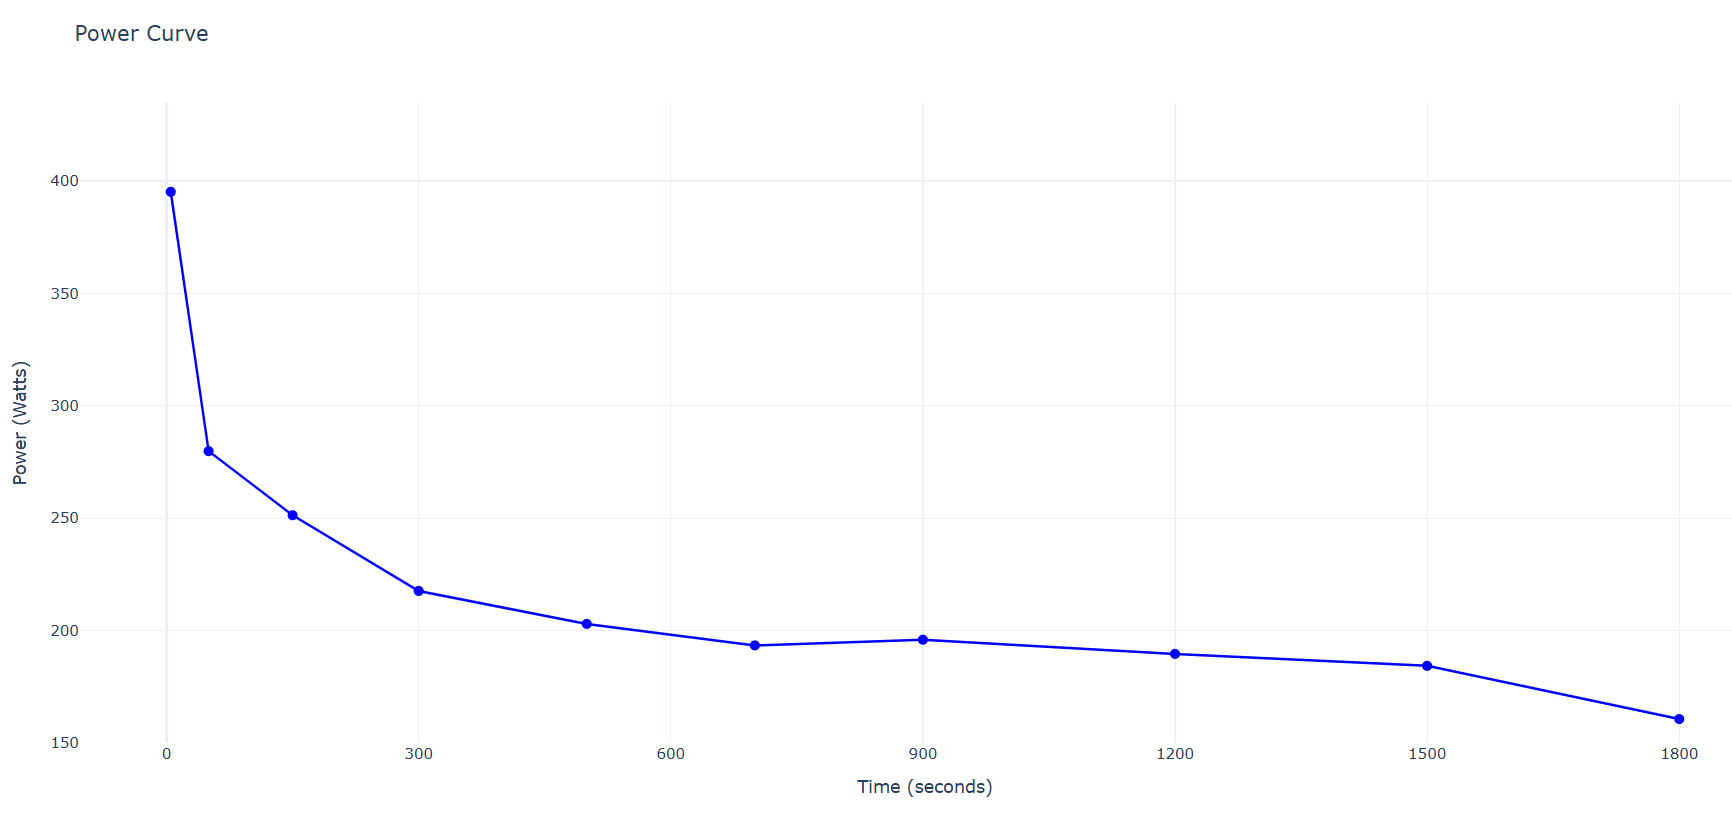
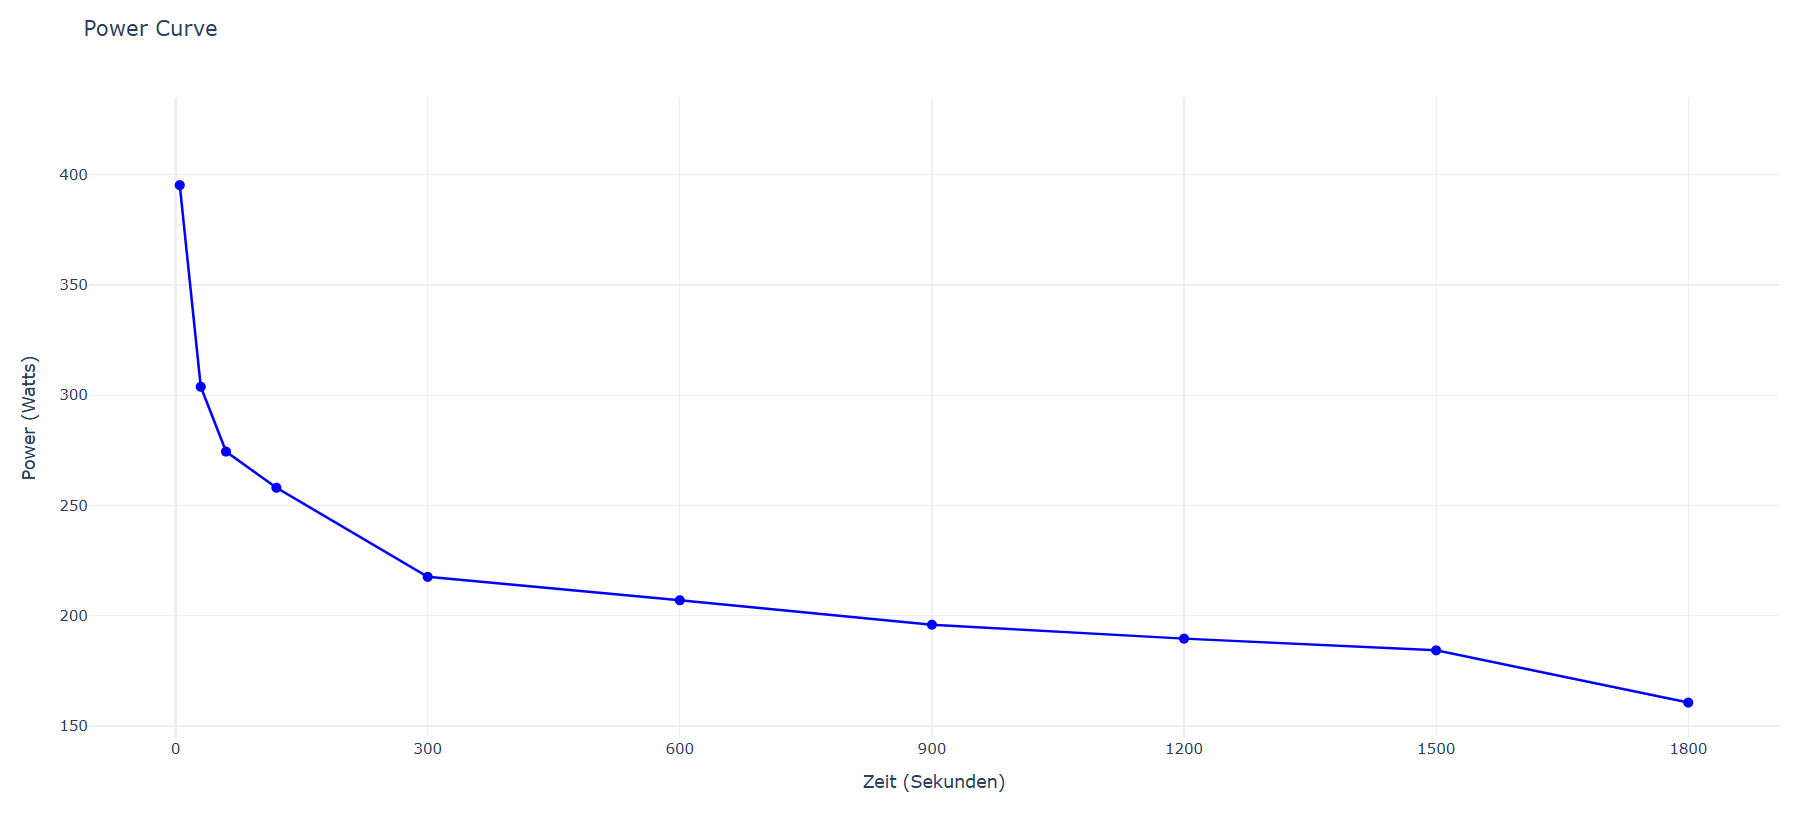
Aktualisierung von Aufgabe 4 und 5

diff --git a/main.py b/main.py
@@ -1,63 +1,113 @@
 import streamlit as st
-import read_data 
-import pandas as pd
+import read_data
 import read_pandas
+import pandas as pd
 from PIL import Image
-
 from person import Person
 from ekgdata import EKGdata
-
 
 st.write("# EKG Data Analysis")
 st.write("## Patient/in auswählen")
 
-if 'current_user' not in st.session_state:
-    st.session_state.current_user = 'None'
-
 person_dict = Person.load_person_data()
 person_names = Person.get_person_list(person_dict)
+person_ids = [p["id"] for p in person_dict]
 
-person_id = st.text_input("Personen-ID eingeben:")
+def get_id_by_name(name):
+    for person in person_dict:
+        if f"{person['lastname']}, {person['firstname']}" == name:
+            return person["id"]
+    return None
 
-# Personendaten anhand der ID laden und anzeigen
-if person_id:
-    all_persons = Person.load_person_data()
-    person_data_by_id = Person.load_by_id(person_id, all_persons)
-    if person_data_by_id:
-        st.markdown("**Personendaten (per ID):**")
-        st.json(person_data_by_id)
-        # Optional: Instanz erzeugen und weitere Infos anzeigen
-        person_by_id = Person(person_data_by_id)
-        age_by_id = person_by_id.calc_age(person_by_id)
-        st.markdown(f"**Alter:** {age_by_id} Jahre")
-    else:
-         st.warning("Keine Person mit dieser ID gefunden.")
+def get_name_by_id(pid):
+    for person in person_dict:
+        if person["id"] == pid:
+            return f"{person['lastname']}, {person['firstname']}"
+    return None
 
-st.session_state.current_user = st.selectbox(
-    'Patient/in',
-    options = person_names, key="sbPatient")
+def sync_name():
+    st.session_state.current_id = get_id_by_name(st.session_state.current_user)
 
-# Anlegen des Session State. Bild, wenn es kein Bild gibt
-if 'picture_path' not in st.session_state:
-    st.session_state.picture_path = 'data/pictures/none.jpg'
+def sync_id():
+    st.session_state.current_user = get_name_by_id(st.session_state.current_id)
 
-# Suche den Pfad zum Bild, aber nur wenn der Name bekannt ist
-if st.session_state.current_user in person_names:
-    st.session_state.picture_path = Person.find_person_data_by_name(st.session_state.current_user)["picture_path"]
-    
-# Öffne das Bild und Zeige es an
-image = Image.open(st.session_state.picture_path)
-st.image(image, caption=st.session_state.current_user)
+if 'current_user' not in st.session_state:
+    st.session_state.current_user = person_names[0]
+if 'current_id' not in st.session_state:
+    st.session_state.current_id = person_ids[0]
 
-if st.session_state.current_user in person_names:
-    person_data = Person.find_person_data_by_name(st.session_state.current_user)
-    person = Person(person_data)
-    age = person.calc_age(person_data)
+col1, col2 = st.columns(2)
+with col1:
+    st.selectbox(
+        "Patient/in",
+        options=person_names,
+        index=person_names.index(st.session_state.current_user),
+        key="current_user",
+        on_change=sync_name
+    )
+with col2:
+    st.selectbox(
+        "Personen-ID auswählen",
+        options=person_ids,
+        index=person_ids.index(st.session_state.current_id),
+        key="current_id",
+        on_change=sync_id
+    )
+
+person = Person.load_by_id(st.session_state.current_id, person_dict)
+
+if person:
+    try:
+        image = Image.open(person.picture_path)
+    except FileNotFoundError:
+        image = Image.open("data/pictures/none.jpg")
+    st.image(image, caption=f"{person.lastname}, {person.firstname}")
+
+    age = person.calc_age()
+    max_hr = person.calc_max_heart_rate()
     st.markdown(f"**Alter:** {age} Jahre")
-    heartrate = person.calc_max_heart_rate(person_data, age)
-    st.markdown(f"**Maximale Herzfrquenz:** {heartrate} bpm")
+    st.markdown(f"**Maximale Herzfrequenz:** {max_hr:.1f} bpm")
 
+    if person.ekg_tests:
+        ekg_ids = [ekg["id"] for ekg in person.ekg_tests]
 
+        # INITIALISIERE selected_ekg_index nur, wenn Person gewechselt hat oder nicht existiert
+        if ('current_person_id_for_ekg' not in st.session_state or
+            st.session_state.current_person_id_for_ekg != person.id or
+            'selected_ekg_index' not in st.session_state):
+            st.session_state.current_person_id_for_ekg = person.id
+            st.session_state.selected_ekg_index = 0
+
+        # Erstelle die Selectbox, ohne den Session State danach zu überschreiben
+        selected_index = st.selectbox(
+            "EKG auswählen",
+            options=range(len(ekg_ids)),
+            index=st.session_state.selected_ekg_index,
+            format_func=lambda x: str(x + 1),
+            key="selected_ekg_index"
+        )
+
+        # Aktualisiere den Index nur, wenn sich die Auswahl ändert (wenn nötig)
+        if selected_index != st.session_state.selected_ekg_index:
+            st.session_state.selected_ekg_index = selected_index
+
+        selected_ekg_id = ekg_ids[selected_index]
+        ekg_dict = EKGdata.load_by_id(person.ekg_tests, selected_ekg_id)
+
+        if ekg_dict:
+            ekg = EKGdata(ekg_dict)
+            threshold = 340
+            peaks = ekg.find_peaks(threshold)
+            fig = ekg.plot_time_series(peaks)
+            st.plotly_chart(fig)
+            estimated_hr = ekg.estimate_hr(peaks)
+            st.markdown(f"**Geschätzte Herzfrequenz:** {estimated_hr:.1f} bpm")
+            st.markdown(f"**EKG-Datei:** {ekg_dict['result_link']}")
+        else:
+            st.warning("Kein EKG mit dieser ID gefunden.")
+    else:
+        st.warning("Keine EKG-Daten für diese Person vorhanden.")
+        
 #EKG-Plot einfügen
 df = read_pandas.read_my_csv()
 
@@ -89,3 +139,4 @@ df_zone_summary = pd.DataFrame(zone_data)
 
 # Index-Spalte entfernen
 st.table(df_zone_summary.set_index("Zone"))
+

diff --git a/power_curve.py b/power_curve.py
@@ -6,31 +6,27 @@ pio.renderers.default = "browser"
 
 def load_activity_data(path: str) -> pd.DataFrame:
     df = pd.read_csv(path)
-
-    df["Time"] = np.arange(len(df))
-
+    df["Time"] = np.arange(len(df))  # 1 Hz: jede Zeile = 1 Sekunde
     return df
 
-def create_powercurve(df, windows_sizes):
-    power_values = []
-    for window in windows_sizes:
-        power = find_best_effort(df, window)
-        power_values.append(power)
-
-    return power_values
-
-def find_best_effort(series, windows_size):
-    rolling_power = series.rolling(window=windows_size).mean()
+def find_best_effort(series, window_size):
+    rolling_power = series.rolling(window=window_size).mean()
     best_effort = rolling_power.max()
-
     return best_effort
 
-def plot_powercurve(time, power_values):
-    df_new = pd.DataFrame({'Time' : time, 'Power' : power_values})
+def create_powercurve(series, durations_seconds):
+    power_values = []
+    for duration in durations_seconds:
+        power = find_best_effort(series, duration)  # 1 Sample = 1 Sekunde
+        power_values.append(power)
+    return power_values
+
+def plot_powercurve(durations_seconds, power_values):
+    df_new = pd.DataFrame({'Duration (s)' : durations_seconds, 'Power (W)' : power_values})
     fig = go.Figure()
     fig.add_trace(go.Scatter(
-        x=df_new["Time"],
-        y=df_new["Power"],
+        x=df_new["Duration (s)"],
+        y=df_new["Power (W)"],
         mode="lines+markers",
         name="Best Effort Power",
         line=dict(color="blue", width=2),
@@ -38,22 +34,21 @@ def plot_powercurve(time, power_values):
     ))
     fig.update_layout(
         title="Power Curve",
-        xaxis_title="Time (seconds)",
+        xaxis_title="Zeit (Sekunden)",
         yaxis_title="Power (Watts)",
         xaxis=dict(tickmode='linear', dtick=300),
-        yaxis=dict(range=[150, max(power_values) * 1.1]),
+        yaxis=dict(range=[min(power_values) * 0.9, max(power_values) * 1.1]),
         template="plotly_white"
     )
-
     fig.show()
     return fig
-
 
 if __name__ == "__main__":
     df = load_activity_data("data/activities/activity.csv")
     series = pd.Series(df["PowerOriginal"])
-    windows_size = 300
-    watts300 = find_best_effort(series, windows_size)
-    windows_sizes = [5, 50, 150, 300, 500, 700, 900, 1200, 1500, 1800]
-    watts = create_powercurve(series, windows_sizes)
-    print(plot_powercurve(windows_sizes, watts))
+
+    # Diese Werte sind sowohl in Sekunden als auch in Samples gültig, da 1Hz
+    durations_seconds = [5, 30, 60, 120, 300, 600, 900, 1200, 1500, 1800]
+
+    watts = create_powercurve(series, durations_seconds)
+    plot_powercurve(durations_seconds, watts)

diff --git a/ekgdata.py b/ekgdata.py
@@ -15,23 +15,22 @@ class EKGdata:
 ## Konstruktor der Klasse soll die Daten einlesen
 
     def __init__(self, ekg_dict):
-        #pass
+        self.ekg_dict = ekg_dict
         self.id = ekg_dict["id"]
         self.date = ekg_dict["date"]
         self.data = ekg_dict["result_link"]
         self.df = pd.read_csv(self.data, sep='\t', header=None, names=['Messwerte in mV','Zeit in ms',])
     
     @staticmethod
-    def load_by_id(ekg_list, search_id):
-        for eintrag in ekg_list:
-                if (eintrag["id"] == search_id):
-                    return eintrag
-                
-                else:
-                    return{}
+    def load_by_id(ekg_list, target_id):
+        for ekg in ekg_list:
+            if int(ekg["id"]) == int(target_id):  # <- sicherer Vergleich
+                return ekg
+        return None
+
     
     
-    def find_peaks(self, ekg_dictioanry, threshold, respacing_factor=5):
+    def find_peaks(self, threshold, respacing_factor=5):
         """
         A function to find the peaks in a series
         Args:
@@ -42,8 +41,6 @@ class EKGdata:
             - peaks (list): A list of the indices of the peaks
         """
         # Respace the series
-        self.data = ekg_dictioanry["result_link"]
-        self.df = pd.read_csv(self.data, sep='\t', header=None, names=['Messwerte in mV','Zeit in ms',])
         series_df = self.df["Messwerte in mV"]
 
         series = series_df.iloc[::respacing_factor]
@@ -67,22 +64,15 @@ class EKGdata:
 
         return peaks
 
+    @staticmethod
     def estimate_hr(peaks):
-
         if len(peaks) < 2:
             return 0  # Nicht genug Daten für Berechnung
-    
+
         rr_intervals_ms = [peaks[i+1] - peaks[i] for i in range(len(peaks)-1)]
-
-        # Mittelwert der RR-Intervalle in Millisekunden
         mean_rr_ms = sum(rr_intervals_ms) / len(rr_intervals_ms)
-
-        # Umrechnung in Sekunden
         mean_rr_sec = mean_rr_ms / 1000.0
-
-        # Herzfrequenz berechnen (60 Sekunden / mittleres RR-Intervall in Sekunden)
         hr = 60 / mean_rr_sec
-
         return hr
     
     def plot_time_series(self, peaks):
@@ -111,7 +101,6 @@ class EKGdata:
             yaxis_title='Messwerte in mV',
             template='plotly_white'
         )
-        fig.show()
         return fig
     
         

diff --git a/person.py b/person.py
@@ -43,35 +43,31 @@ class Person:
             return {}
         
     def __init__(self, person_dict) -> None:
-        self.date_of_birth = person_dict["date_of_birth"]
+        self.id = person_dict["id"]
         self.firstname = person_dict["firstname"]
         self.lastname = person_dict["lastname"]
-        self.picture_path = person_dict["picture_path"]
-        self.id = person_dict["id"]
-    @staticmethod
-    def load_by_id(id, person_data):
-        for eintrag in person_data:
-                if (eintrag["id"] == id):
-
-                    return eintrag
-                
-                else:
-                    return{}
-    
-    def calc_age(self, person_dict):
         self.date_of_birth = person_dict["date_of_birth"]
-        today = date.today().year
-        age = today - self.date_of_birth
-        return age
+        self.picture_path = person_dict.get("picture_path", "data/pictures/none.jpg")
+        self.gender = person_dict.get("gender", "unknown")
+        self.ekg_tests = person_dict.get("ekg_tests", [])
 
-    def calc_max_heart_rate(self, person_dict, age):
-        self.gender = person_dict["gender"]
+    @staticmethod
+    def load_by_id(pid, person_dict):
+        for person_data in person_dict:
+            if str(person_data["id"]) == str(pid):  # Vergleich als String für Sicherheit
+                return Person(person_data)
+        return None
+    
+    def calc_age(self):
+        today_year = date.today().year
+        return today_year - self.date_of_birth
+
+    def calc_max_heart_rate(self):
+        age = self.calc_age()
         if self.gender == "male":
             max_heart = 223 - 0.9 * age
-            print(max_heart)
         else:
             max_heart = 226 - age
-
         return max_heart
 
 if __name__ == "__main__":

diff --git a/README.md b/README.md
@@ -6,7 +6,7 @@ In der Streamlit-App können EKG und Leistungs-Daten von einzelnen Patienten ges
 
 Um das Projekt auszuführen, müssen zunächst Python und das Python-Paketverwaltungstool pdm installiert werden (z.B. mit dem Befehl pip install pdm). Anschließend wird das Projekt mit dem Befehl pdm init initialisiert. Dabei gibt man grundlegende Informationen wie Projektname, Version, Beschreibung und Autor an.
 
-Nach der Initialisierung werden die benötigten Abhängigkeiten, wie z. B. streamlit, plotly, numpy, pandas und matplotlib, mit pdm add installiert. Das Projekt wird anschließend von GitHub geklont und man erhält alle notwendigen Dateien.
+Nach der Initialisierung werden die benötigten Abhängigkeiten, wie z. B. streamlit, plotly, numpy, pandas und matplotlib, mit pdm add installiert. Das Projekt wird anschließend von GitHub geklont und man erhält alle notwendigen Dateien. Nun kann das Streamlit mit dem Befehl streamlit run main.py zum Laufen gebracht werden. Die Streamlit App wird nun im Browser geöffnet.
 
 Die Datei data.csv enthält die gemessenen Leistungsdaten. Diese werden mit der Funktion in read_pandas.py ausgewertet und in einem Plot dargestellt. In der main.py wird der Aufbau der Streamlit-App definiert und es wird auf read_pandas.py zugegriffen, um den Plot und weitere Daten in der Streamlit-App darzustellen.
 
@@ -17,3 +17,7 @@ Nun kann man die Streamlit-App im Browser aufrufen und diese schaut so aus:
 # Aufgabe 4
 
 ![alt text](picture/Screenshot2.png)
+
+# Aufgabe 5
+
+![alt text](picture/Screenshot3.png)
